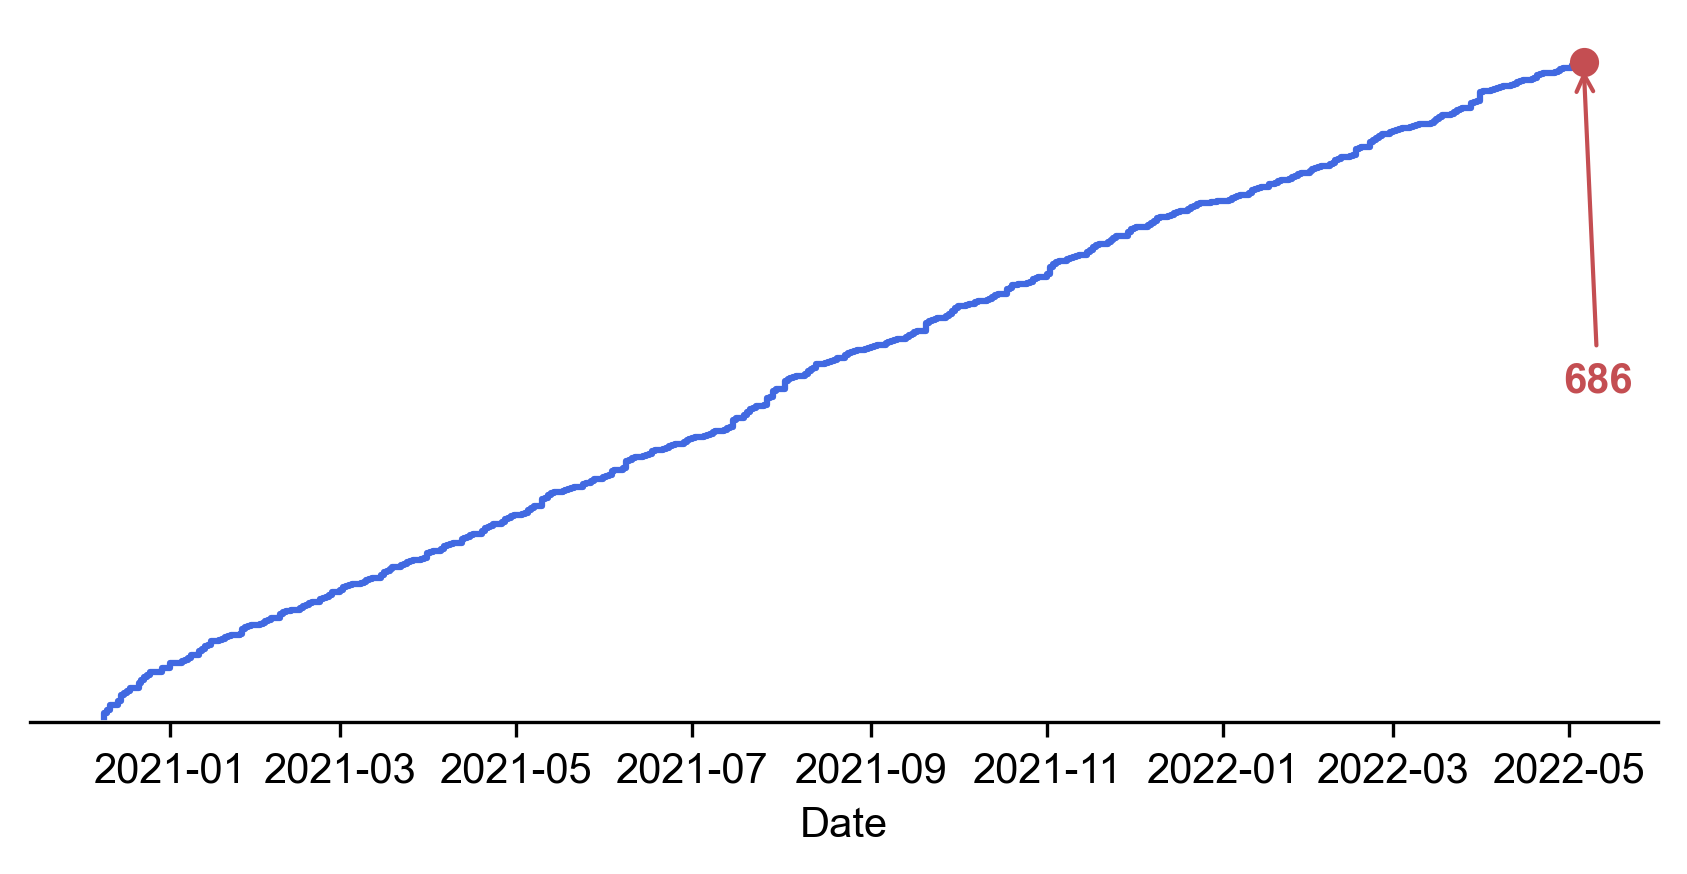
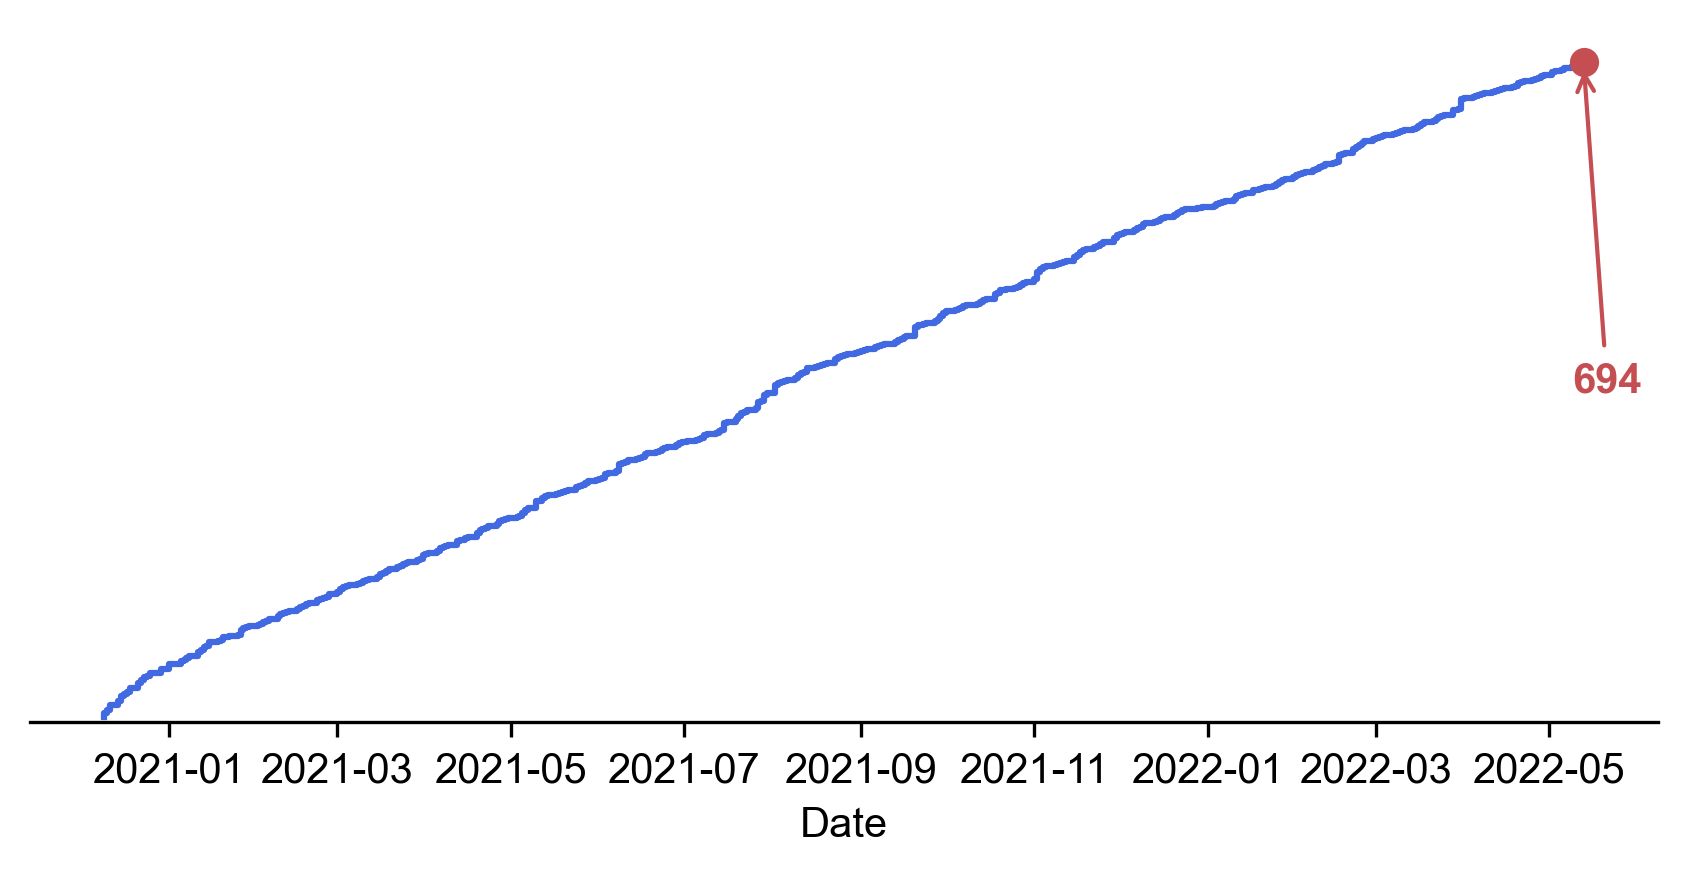
2022-05-14

diff --git a/2022/05/AstroPH-2022-05.md b/2022/05/AstroPH-2022-05.md
@@ -58,3 +58,67 @@
 
 ## 2022-05-09
 
+1. [Simulating high-time resolution radio-telescope observations](https://arxiv.org/abs/2205.03046)
+
+   > Radio, Signal Simulate, Software
+
+   罗睿的文章，写了个模拟射电望远镜数据的软件，可以模拟脉冲星、FRB，也包含更细节的特征如散射和闪烁，也可以模拟RFI，软件在[这里](https://bitbucket.csiro.au/projects/psrsoft/repos/simulatesearch)。
+
+   <img src="Figures/image-20220510010621285.png" alt="image-20220510010621285" style="zoom:80%;" />
+
+2. [Dust Evolution in the Coma of Distant, Inbound Comet C/2017 K2 (PANSTARRS)](https://arxiv.org/abs/2205.02854)
+
+   > Comet, HST
+
+   `C/2017 K2 (PANSTARRS)`是一颗奥尔特云彗星，在2021年首次穿越内太阳系。用HST在近日点前6AU和8AU的位置观测了这颗彗星，获得光度和偏振测量。发现彗星的颜色和偏振有径向梯度，反射率和偏振距离彗核越远越强。
+
+## 2022-05-10
+
+1. [Four new deeply-eclipsing white dwarfs in ZTF](https://arxiv.org/abs/2205.03431)
+
+   > Stellar, White Dwarf, ZTF
+
+   在`ZTF DR4`中找到9个暗白矮星，其中4个进行了后随观测，分析表明四个系统都有一个$\sim0.1M_\odot$的伴星。在`ZTF DR7`中，搜索到41个暗WD+M双星系统，根据`PanSTARRS`的颜色，确定了两个短周期的`白矮星-褐矮星`双星。
+
+2. [Interstellar planetesimals](https://arxiv.org/abs/2205.04277)
+
+   > Planetary Science, Solar System, Asteroid
+
+   星际小行星综述。在太阳系形成过程中，大量的小行星被行星引力甩到星际空间中，并且不再变化。星际小行星有可能被困在行星和恒星的形成环境中，作为行星形成的种子，帮助克服厘米大小的石块成长为公里大小的障碍。
+
+   在2017年，`Oumuamua`的发现为研究行星的原始构件打开新的窗口，其可能是一个从未见过的行星形成的中间产物。
+
+## 2022-05-11
+
+1. [The jet and resolved features of the central supermassive black hole of M 87 observed with EHT](https://arxiv.org/abs/2205.04623)
+
+   > Radio, Black Hole, EHT
+
+   重处理EHT对M87观测的数据，结果与EHTC公布图像不同。在EHTC的结果中`没有喷流`并且`存在环状结构`，是由于狭窄的FOV设置以及uv数据采样偏差导致的假象，因为EHTC的模拟只考虑了输入图像模型的再现，而没有考虑输入噪声模型的再现。其最佳参数可以增强采样偏差的影响，产生$40\mu as$的环状结构，这不再是正确的图像。
+
+## 2022-05-12
+
+1. [CHES: a space-borne astrometric mission for the detection of habitable planets of the nearby solar-type stars](https://arxiv.org/abs/2205.05645)
+
+   > Planetary Science, Satellite
+
+   `Closeby Habitable Exoplanet Survey (CHES)`，提出的一个新的太空望远镜计划，直径$1.2m$，视场$0.44^\circ\times0.44^\circ$，可以在$500\sim900\,\rm nm$获得$1\mu as$的天体测量精度，运行在L2。从附近恒星宜居带中的类地行星中寻找宜居行星。
+
+## 2022-05-13
+
+1. [The Chinese Hα Solar Explorer (CHASE) mission: An overview](https://arxiv.org/abs/2205.05962)
+
+   > Solar, Ha, Statellite
+
+   「羲和」是发射于2021年10月14日的太阳探测器，对太阳进行$H\alpha$的光谱观测，有两种观测模式。光栅扫描模式获得感兴趣的区域的光谱，分辨率是$0.024\AA$，时间分辨率1分钟。连续成像模式是获得$6689\AA$周围的光球图像。文章介绍了项目的科学目标、仪器概况、数据校准流程和首批结果。**夸父已经鸽了十年了。**
+
+2. [SKYSURF: Constraints on Zodiacal Light and Extragalactic Background Light through Panchromatic HST All-Sky Surface-Brightness Measurements: I. Survey Overview and Methods](https://arxiv.org/abs/2205.06214)
+
+   > Solar System, HST, Zodiacal Light
+
+   使用HST作为绝对光度计的能力，从$249,861$次曝光中测量$0.2-1.7\,\rm\mu m$的天空亮度，并约束从紫外到近红外天空中的弥漫成分，包括黄道光`Zl`、柯伊伯带天体`KBOs`、漫射银河光`DGL`、河外背景光`EBL`。
+
+   <img src="image-20220513193313729.png" alt="image-20220513193313729" style="zoom:80%;" />
+
+## 2022-05-16
+

diff --git a/2022/04/AstroPH-2022-04.md b/2022/04/AstroPH-2022-04.md
@@ -180,7 +180,7 @@
 
    > Fast Radio Burst, Polarization, Theory
 
-   王发印他们的文章，觉得`FRb 20201124A`和`FRB 20190520B`的RM变化是双星系统导致的。
+   王发印他们的文章，觉得`FRB 20201124A`和`FRB 20190520B`的RM变化是双星系统导致的。
 
 ## 2022-04-20
 
